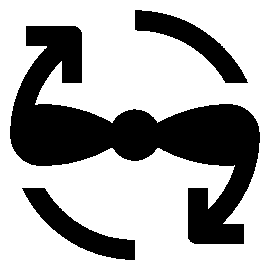
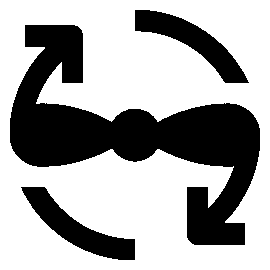
ロゴ追加

diff --git a/README.md b/README.md
@@ -1,4 +1,8 @@
-# Tobas Flight Controller
+![Tobas](./docs/docs/assets/logo_black.png#gh-light-mode-only)
+![Tobas](./docs/docs/assets/logo_white.png#gh-dark-mode-only)
+
+[![Latest version](https://img.shields.io/github/v/release/TobasFlightControl/tobas)](https://github.com/TobasFlightControl/tobas/releases)
+[![License: GPL v3](https://img.shields.io/badge/License-GPLv3-blue.svg)](https://www.gnu.org/licenses/gpl-3.0)
 
 Tobas is a Linux-based, model-based flight controller for drones and robotic aircraft.
 It designs control systems from each airframe's physical model,
